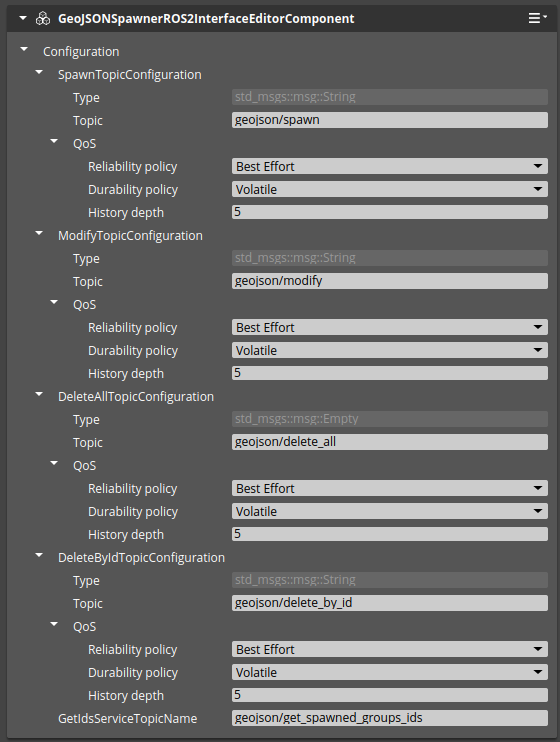
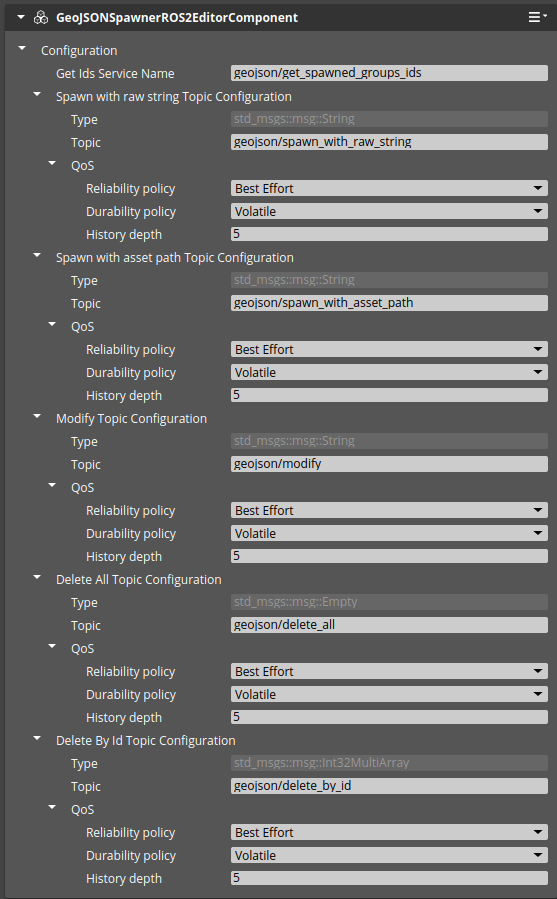
Updated README

diff --git a/readme.md b/readme.md
@@ -179,3 +179,72 @@ Example of supported GeoJSON:
 }
 
 ```
+
+# GeoJSONSpawnerROS2
+
+Gem provides a component that connects GeoJSONSpawner with ROS 2. This component provides 4 topics and 1 service that allows to control GeoJSONSpawner with ROS 2 messages.
+
+![](doc/GeoJSONSpawnerROS2Interface.png)
+
+Topics:
+- `geojson/spawn_with_asset_path [std_msgs::msg:String]` - topic that allows to spawn entities using a passed path to asset with GeoJSON.
+- `geojson/spawn_with_raw_string [std_msgs::msg:String]` - topic that allows to spawn entities using a passed raw string with a GeoJSON.
+- `geojson/modify [std_msgs::msg::String]`  - topic that allows to modify spawned entities using the id passed with a spawn request. Usage example:
+Lets suppose that user spawned prefabs using such GeoJSON:
+```
+{
+  "type": "FeatureCollection",
+  "features": [
+    {
+      "type": "Feature",
+      "properties": {
+        "spawnable_name": "ball",
+        "id": 0
+      },
+      "geometry": {
+        "type": "Point",
+        "coordinates": [35.19412345678901, 32.58987654321098]
+      }
+    },
+    {
+      "type": "Feature",
+      "properties": {
+        "spawnable_name": "ball",
+        "id": 1
+      },
+      "geometry": {
+        "type": "MultiPoint",
+        "coordinates": [
+          [35.19423456789012, 32.58976543210987],
+          [35.19454321098765, 32.58923456789012]
+        ]
+      }
+    }
+  ]
+}
+```
+Suppose the user wants to move the Feature Object assigned to ID 0. To do this, remove the Feature Object with ID 1 from the original json, then apply the necessary corrections to the coordinates of the Feature Object with ID 0 and send the GeoJSON thus prepared to the topic `geojson/modify`.
+```
+{
+  "type": "FeatureCollection",
+  "features": [
+    {
+      "type": "Feature",
+      "properties": {
+        "spawnable_name": "ball",
+        "id": 0
+      },
+      "geometry": {
+        "type": "Point",
+        "coordinates": [135.19412345678901, 132.58987654321098]
+      }
+    }
+  ]
+}
+
+```
+- `geojson/delete_all [std_msgs::msg::Empty]` - topic that despawns all entities spawned with GeoJSONSpawner.
+- `geojson/delete_by_id [std_msgs/msg/Int32MultiArray]`  - topic that despawns all entities associated with a given ids.
+
+Service:
+`geojson/get_spawned_groups_ids [std_srvs/srv/Trigger]` - service that returns all spawned ids together with the number of prefabs associated with each id.
